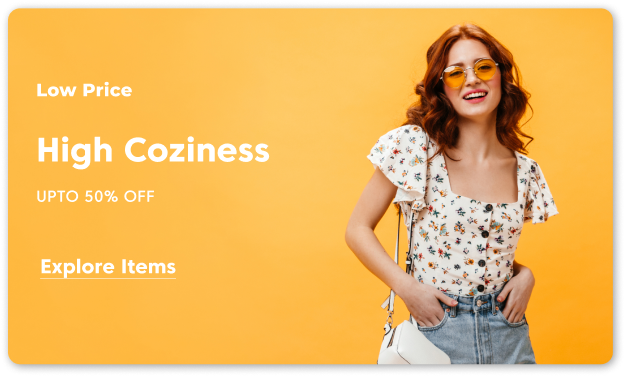
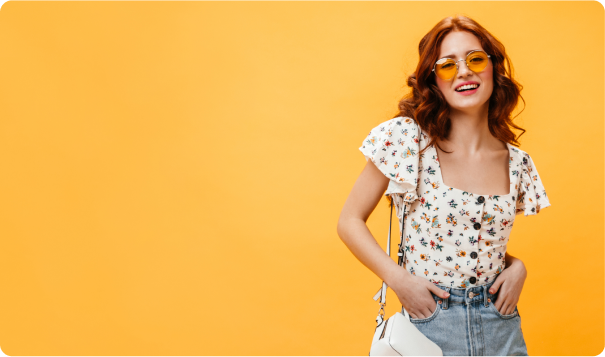
feat: add subHeroCards

diff --git a/CommercialStore/src/pages/Home.tsx b/CommercialStore/src/pages/Home.tsx
@@ -2,6 +2,8 @@ import React from "react";
 import Helmet from "../components/Helmet/Helmet";
 import s from "../style/pages/Home.module.scss";
 import { Link } from "react-router-dom";
+import SubHeroCard from "../components/SubHeroCard/SubHeroCard";
+import { staticData } from "../assets/data/staticData";
 
 export default function Home() {
   return (
@@ -12,39 +14,26 @@ export default function Home() {
             <div className={s.heroWrapper}>
               <div className={s.heroSubtitle}>
                 <p className={s.description}>T-shirt / Tops</p>
-                <h2 className={s.title}>Summer<br/> Value Pack</h2>
+                <h2 className={s.title}>
+                  Summer
+                  <br /> Value Pack
+                </h2>
                 <p className={s.description}>cool / colorful / comfy</p>
               </div>
               <div className={s.btnWrapper}>
-                <button className={s.heroBtn}><Link to='/shop'>Shop Now</Link></button>
+                <button className={s.heroBtn}>
+                  <Link to="/shop">Shop Now</Link>
+                </button>
               </div>
             </div>
-          </div> 
+          </div>
         </section>
 
         <section className={s.subHeroSection}>
           <div className={s.subHeroSectionContent}>
-          <div className={s.subHeroWrapper}>
-              <div className={s.subHeroSubtitle}>
-                <p className={s.subHeroDescription}>T-shirt / Tops</p>
-                <h2 className={s.subHeroTitle}>Summer<br/> Value Pack</h2>
-                <p className={s.subHeroDescription}>cool / colorful / comfy</p>
-              </div>
-              <div className={s.subHeroBtnWrapper}>
-               <Link to='/shop' className={s.subHeroHeroBtn}>Explore Items</Link>
-              </div>
-            </div>
-
-            <div className={s.subHeroWrapper}>
-              <div className={s.subHeroSubtitle}>
-                <p className={s.subHeroDescription}>T-shirt / Tops</p>
-                <h2 className={s.subHeroTitle}>Summer<br/> Value Pack</h2>
-                <p className={s.subHeroDescription}>cool / colorful / comfy</p>
-              </div>
-              <div className={s.subHeroBtnWrapper}>
-               <Link to='/shop' className={s.subHeroHeroBtn}>Explore Items</Link>
-              </div>
-            </div>
+            {staticData.map((el) => (
+              <SubHeroCard data={el} key={el.id} />)
+            )}
           </div>
         </section>
       </Helmet>

diff --git a/CommercialStore/src/components/SubHeroCard/SubHeroCard.module.scss b/CommercialStore/src/components/SubHeroCard/SubHeroCard.module.scss
@@ -1,0 +1,66 @@
+@import "../../style/sass/variables.scss";
+
+.subHeroSubtitle {
+}
+
+.subHeroWrapper {
+  display: flex;
+  position: relative;
+  flex-direction: column;
+  column-gap: 1.875rem;
+  row-gap: 1.875rem;
+  width: 85%;
+  background-repeat: no-repeat;
+  margin-bottom: 6.25rem;
+}
+
+.subHeroContent {
+  position: absolute;
+  top: 0;
+  width: 50%;
+  height: 100%;
+  display: flex;
+  flex-direction: column;
+  padding-left: 1.875rem;
+  padding-top: 3.75rem;
+  padding-bottom: 3.75rem;
+  justify-content: space-around;
+}
+
+.subHeroImg {
+  display: inline-block;
+  width: 100%;
+  height: 100%;
+  border-radius: 12px;
+  box-shadow: 0 0 10px grey;
+}
+
+.subHeroTitle {
+  font-size: $font-size-medium;
+  font-weight: $font-weight-extra-bold;
+  font-family: $fontMontserrat;
+  color: $white;
+}
+
+.subHeroDescription {
+  font-size: $font-size-heading;
+  font-weight: $font-weight-extra-bold;
+  font-family: $titlesFont;
+  color: $white;
+}
+
+.subHeroOffer {
+  font-size: $font-size-normal;
+  font-weight: $font-weight-medium;
+  font-family: $titlesFont;
+  color: $white;
+}
+
+.subHeroBtn {
+  font-size: 1.25rem;
+  font-weight: $font-weight-extra-bold;
+  font-family: $titlesFont;
+  color: $white;
+  border-bottom: 1px solid $white;
+  width: fit-content;
+}

diff --git a/CommercialStore/src/components/SubHeroCard/SubHeroCard.tsx b/CommercialStore/src/components/SubHeroCard/SubHeroCard.tsx
@@ -1,0 +1,24 @@
+import React from "react";
+import s from "./SubHeroCard.module.scss";
+import { Link } from "react-router-dom";
+import { staticDataCardInterface } from "../../assets/data/staticData";
+
+export default function SubHeroCard({ data }: staticDataCardInterface) {
+  const { title, description, offer, img } = data;
+  console.log("daata", data);
+  return (
+    <div className={s.subHeroWrapper}>
+      <div className={s.subHeroSubtitle}>
+        <img src={img} alt={description} className={s.subHeroImg} />
+        <div className={s.subHeroContent}>
+          <p className={s.subHeroTitle}>{title}</p>
+          <h2 className={s.subHeroDescription}>{description}</h2>
+          <p className={s.subHeroOffer}>{offer}</p>
+          <Link to="/shop" className={s.subHeroBtn}>
+            Explore Items
+          </Link>
+        </div>
+      </div>
+    </div>
+  );
+}

diff --git a/CommercialStore/src/components/Header/Header.tsx b/CommercialStore/src/components/Header/Header.tsx
@@ -1,12 +1,11 @@
 import React from "react";
 import { NavLink } from "react-router-dom";
 import s from "./Header.module.scss";
-import logo from "../../images/header-logo.png";
-import searchIcon from "../../images/icons/search-icon.png";
-import favoriteIcon from "../../images/icons/fav-icon.png";
-import userIcon from "../../images/icons/user-icon.png";
-import cartIcon from "../../images/icons/cart-icon.png";
-import { motion } from "framer-motion";
+import logo from "../../assets/images/header-logo.png";
+import searchIcon from "../../assets/images/icons/search-icon.png";
+import favoriteIcon from "../../assets/images/icons/fav-icon.png";
+import userIcon from "../../assets/images/icons/user-icon.png";
+import cartIcon from "../../assets/images/icons/cart-icon.png";
 
 export default function Header() {
   return (

diff --git a/CommercialStore/src/assets/data/staticData.ts b/CommercialStore/src/assets/data/staticData.ts
@@ -1,0 +1,36 @@
+import { ReactNode } from "react"
+
+export interface staticDataInterface{
+    id: number,
+    title: string,
+    description: string,
+    offer: string,
+    img?: string,
+}
+
+export interface staticDataCardInterface{
+    data:{
+    id: number,
+    title: string,
+    description: string,
+    offer: string,
+    img?: string,}
+}
+
+
+export const staticData = [
+    {
+        id: 1,
+        title: 'Low Price',
+        description: 'High Coziness',
+        offer: 'UPTO 50% OFF',
+        img: 'src/assets/images/imagesHome/home-coziness.png'
+    },
+    {
+        id: 2,
+        title: 'Beyoung Presents',
+        description: 'Breezy Summer Style',
+        offer: 'UPTO 50% OFF',
+        img: 'src/assets/images/imagesHome/home-summer-style.png'
+    }
+]

diff --git a/CommercialStore/src/style/pages/Home.module.scss b/CommercialStore/src/style/pages/Home.module.scss
@@ -13,7 +13,7 @@
 .heroWrapper {
   width: 100%;
   height: 100%;
-  background-image: url("../../images/imagesHome/home-shop-1.png");
+  background-image: url("../../assets/images/imagesHome/home-shop-1.png");
   background-repeat: no-repeat;
   background-size: cover;
   display: flex;
@@ -66,13 +66,14 @@
 }
 
 .subHeroSection{
-  padding-top: 130px;
+  padding-top: 8.125rem;
   width: 85%;
   margin: 0 auto;
 }
 
 .subHeroSectionContent{
   display: flex;
-  column-gap: 30px;
+  column-gap: 1.875rem;
+  height: auto;
 }
 

diff --git a/CommercialStore/index.html b/CommercialStore/index.html
@@ -1,9 +1,10 @@
 <!doctype html>
 <html lang="en">
   <head>
-    <meta charset="UTF-8" />
+    <meta charset="UTF-8" /> 
     <link rel="icon" type="image/svg+xml" href="/vite.svg" />
     <meta name="viewport" content="width=device-width, initial-scale=1.0" />
+    <link href="https://fonts.googleapis.com/css2?family=DM+Sans:opsz,wght@9..40,700&family=Inter:wght@400;700&family=Montserrat:wght@800&display=swap" rel="stylesheet">
     <title>Euphoria</title>
   </head>
   <body>

diff --git a/CommercialStore/src/style/sass/variables.scss b/CommercialStore/src/style/sass/variables.scss
@@ -2,6 +2,7 @@
 
 $titlesFont: 'CoreSansC__regular', sans-serif;
 $textFont: 'Causten', sans-serif;
+$fontMontserrat: 'Montserrat', sans-serif;
 
 $font-weight-light: 300;
 $font-weight-normal: 400;

diff --git a/CommercialStore/src/components/Header/Header.module.scss b/CommercialStore/src/components/Header/Header.module.scss
@@ -84,3 +84,5 @@
     box-shadow: none;
   }
 }
+
+
